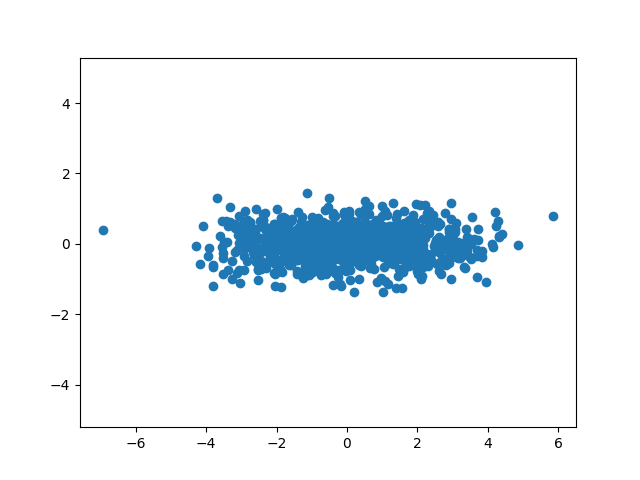
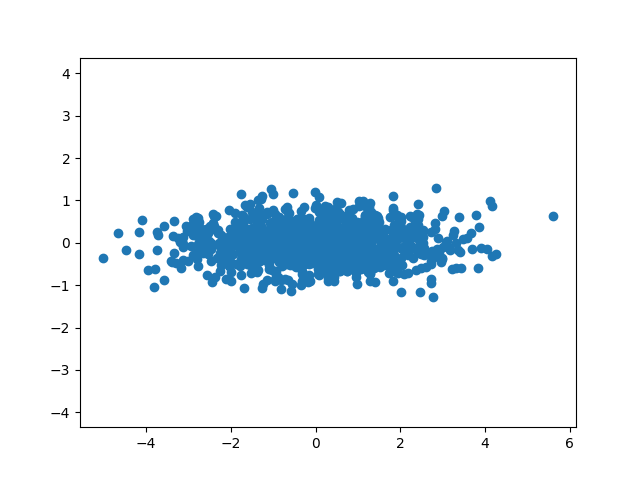
Fix R_w, update captions

diff --git a/lab5/latex/main.tex b/lab5/latex/main.tex
@@ -58,15 +58,18 @@
 \begin{figure}[H]
     \centering
     \includegraphics[width=1\textwidth]{../w-2-1.png}
-        \end{figure}
+    \caption{Scatter Plot of W}
+\end{figure}
 \begin{figure}[H]
     \centering
     \includegraphics[width=1\textwidth]{../x-tilde-2-1.png}
-        \end{figure}
+    \caption{Scatter Plot of $\tilde{X}$}
+\end{figure}
 \begin{figure}[H]
     \centering
     \includegraphics[width=1\textwidth]{../x-2-1.png}
-        \end{figure}
+    \caption{Scatter Plot of X}
+\end{figure}
 \subsection{Covariance Estimation and Whitening}
 The theoretical value of the covariance $R_x$ is given as
 \begin{equation*}
@@ -74,32 +77,34 @@ R_x =
 \begin{bmatrix}
     2 & -1.2 \\
     -1.2 & 1
-\end{bmatrix}
-\end{equation*}.
+\end{bmatrix}.
+\end{equation*}
 The covariance estimate $\hat{R}_X$ is calculated to be
 \begin{equation*}
 \hat{R}_X = 
 \begin{bmatrix}
     1.97 & -1.19 \\
     -1.19 & 0.99
-\end{bmatrix}
-\end{equation*}.
+\end{bmatrix}.
+\end{equation*}
 \begin{figure}[H]
     \centering
     \includegraphics[width=1\textwidth]{../x-tilde-2-2.png}
-        \end{figure}
+    \caption{Scatter Plot of $\tilde{X}$}
+\end{figure}
 \begin{figure}[H]
     \centering
     \includegraphics[width=1\textwidth]{../w-2-2.png}
+    \caption{Scatter Plot of W}
 \end{figure}
-The covariance estimate $\hat{R}_W$ is calculated to be
+The covariance estimate $\hat{R}_W$ is calculated to be very close to the identity matrix
 \begin{equation*}
 \hat{R}_W = 
 \begin{bmatrix}
-    0.34 & 0 \\
-    0 & 4.87
-\end{bmatrix}
-\end{equation*}.
+    1 & 0 \\
+    0 & 1
+\end{bmatrix}.
+\end{equation*}
 
 % Skip section 3
 \stepcounter{section}
@@ -108,14 +113,22 @@ The covariance estimate $\hat{R}_W$ is calculated to be
 \begin{figure}[H]
     \centering
     \includegraphics[width=1\textwidth]{../eigenimages.png}
+    \caption{Eigenimages}
 \end{figure}
 \begin{figure}[H]
     \centering
     \includegraphics[width=1\textwidth]{../projection-coefficients.png}
+    \caption{Projection Coefficients}
 \end{figure}
 \begin{figure}[H]
     \centering
     \includegraphics[width=1\textwidth]{../original-image.png}
+    \caption{Original Image}
+\end{figure}
+\begin{figure}[H]
+    \centering
+    \includegraphics[width=1\textwidth]{../resynthesized-images.png}
+    \caption{The 6 resynthesized images}
 \end{figure}
 
 \section{Image Classification}
@@ -206,6 +219,6 @@ The covariance estimate $\hat{R}_W$ is calculated to be
 
 Clearly, among the above, the $B_k = \Lambda_k$, $B_k = R_{wc}$, and $B_k = \Lambda$ performed the best, only incorrectly classifying two characters.
 
-TODO: Answer question 2
+In constraining the covariance, we are achieving a higher accuracy of estimates in exchange for a lower accuracy of the data model.
 
 \end{document}

diff --git a/lab5/section2.py b/lab5/section2.py
@@ -41,11 +41,13 @@ for col in range(Z.shape[1]):
 R_hat = 1/(n-1) * Z @ Z.T
 print(R_hat)
 evals, evecs = np.linalg.eig(R_hat)
-evals_n12 = np.diag(1 / evals)
+evals_n12 = np.diag(1 / np.sqrt(evals))
 
 
-X_tilde = evecs.T @ X
+X_tilde = evecs.T @ Z
+# Switch with covariance mat (R_hat?) Double check in general
 W = evals_n12 @ X_tilde
+# W = R_hat @ X_tilde
 uW = np.mean(W, axis=1)
 Zw = np.copy(W)
 for col in range(Zw.shape[1]):
